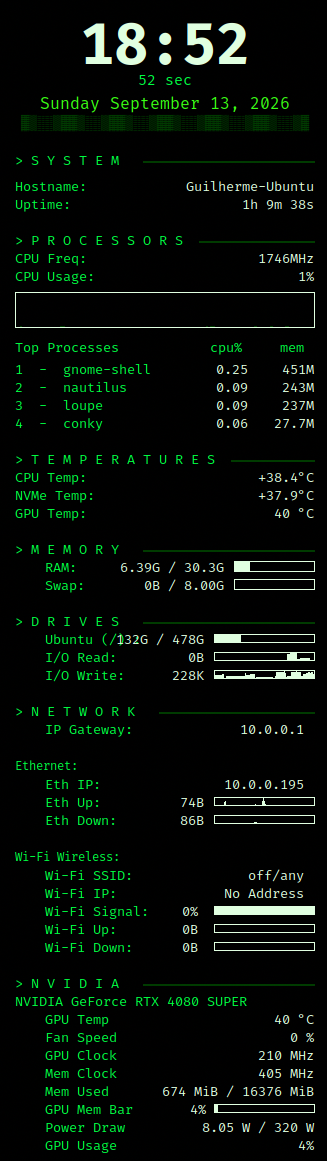
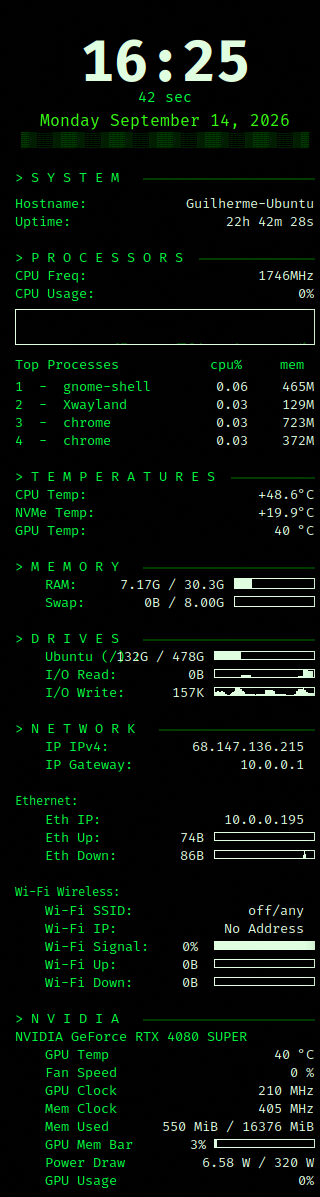
Fixed REAMDME.md file and screenshots

diff --git a/README.md b/README.md
@@ -9,7 +9,8 @@ A [Conky](https://github.com/brndnmtthws/conky) theme inspired by the visual sty
 
 > Add a screenshot of your desktop with the conky running here:
 >
-> `![preview](docs/preview.png)`
+> ![preview](Conky.png)
+> ![Desktop](Desktop.png)
 
 ## Features
 
